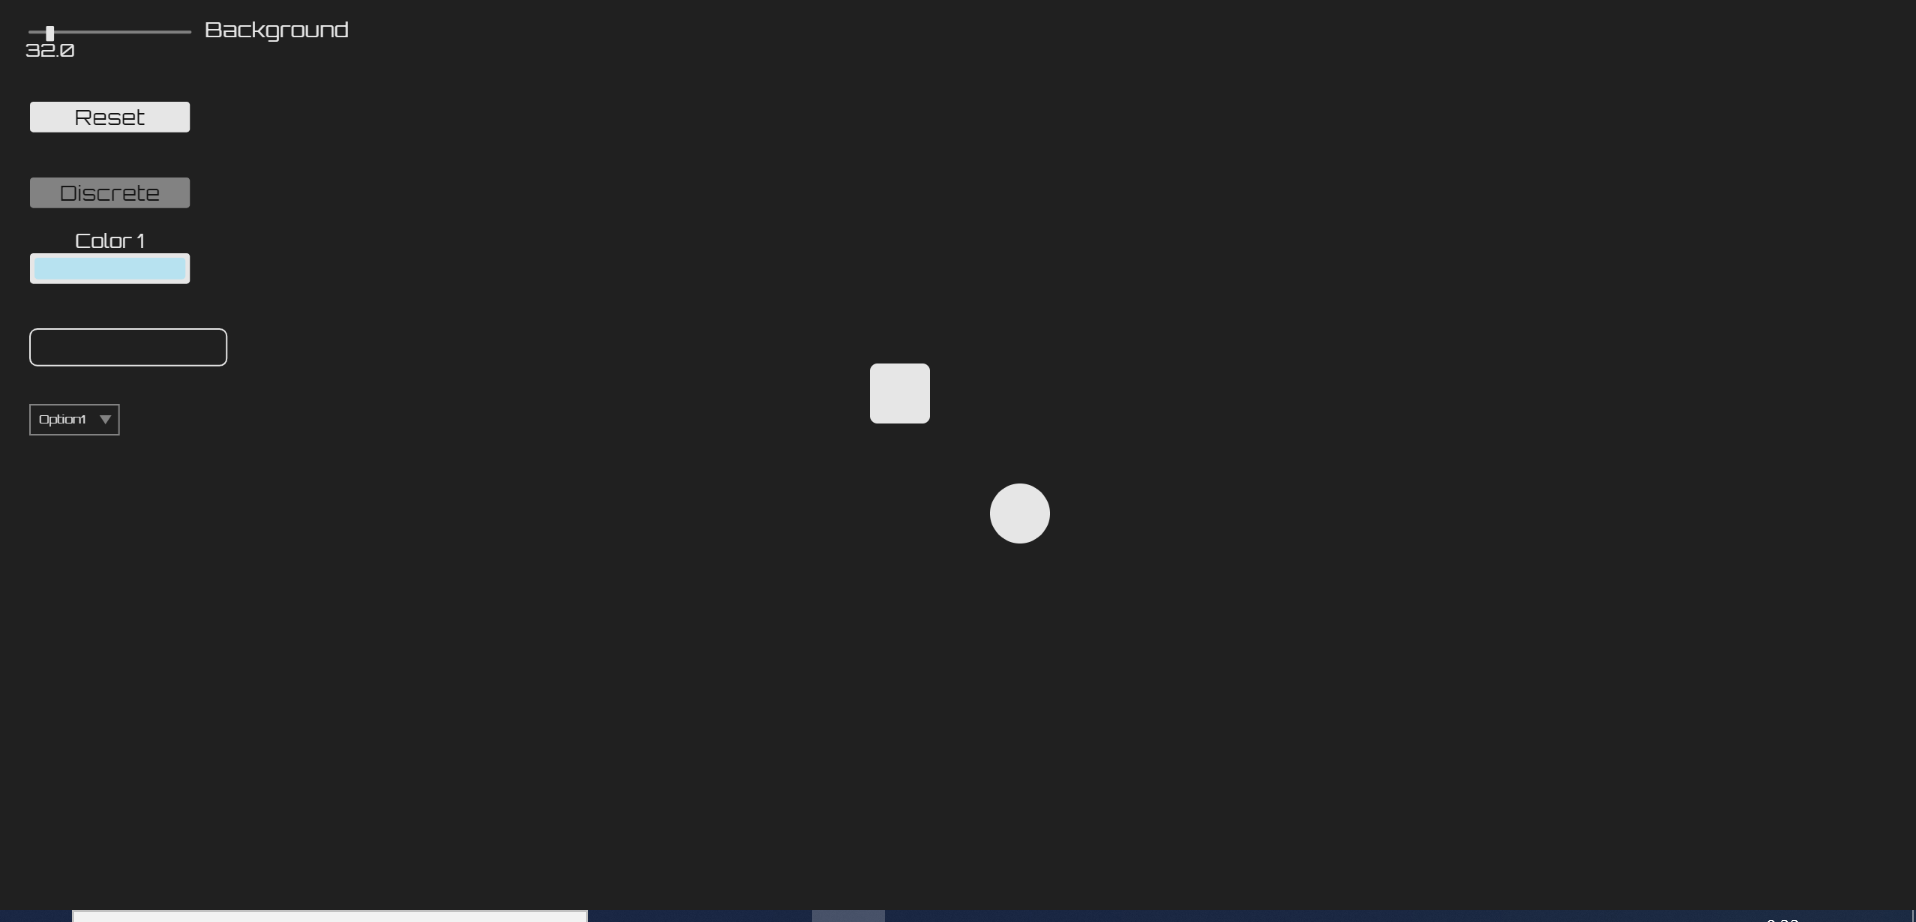
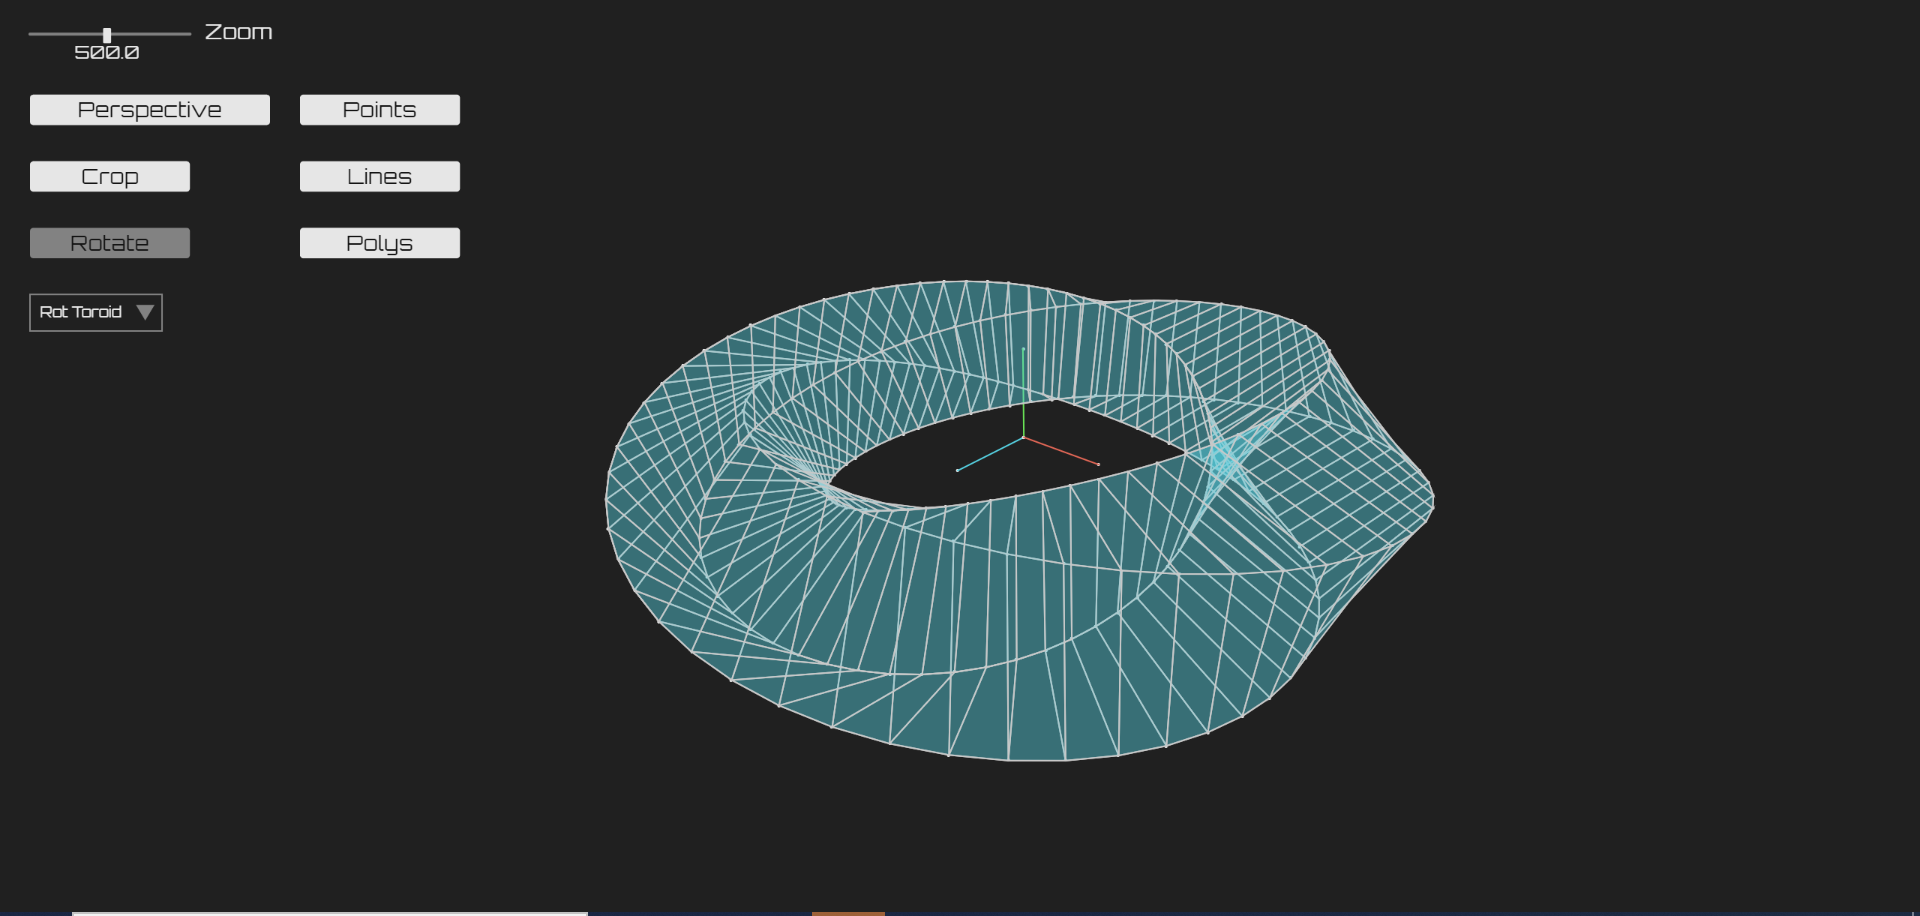
Added all object generators

diff --git a/generators.js b/generators.js
@@ -60,11 +60,12 @@ function genFunc(f=(x,y) => x*x-y*y, w=2, h=2, hres=15, wres=15) {
  * @param start Vector to rotate
  * @param n Times the vector should be rotated
  * @param end True to close the end point back to the start
+ * @param angle Full angle of rotation
  */
-function genCircle(axis=1, start=new Vector([1,0,0]), n=16, end=true) {
+function genCircle(axis=1, start=new Vector([1,0,0]), n=16, end=true, angle=2*PI) {
     return new Wireframe(new Vector([0,0,0]), 
-        Array(n).fill().map((_,i) => start.copy().rotate(i/n*2*PI)),
-        Array(n-1).fill().map((_,i) => [i,i+1]).concat(end ? [[n-1,0]] : [])
+        Array(n+1).fill().map((_,i) => start.copy().rotate(i/n*angle)),
+        Array(n).fill().map((_,i) => [i,i+1]).concat(end ? [[n,0]] : [])
     );
 }
 
@@ -117,6 +118,89 @@ function extrude(wireframe, axis=1, len=3, faces=true) {
 	return new SolidObj(new Vector([0,0,0]), pts, pols);
 }
 
-function genDef() {
-	return genCube();
+
+/**
+ * Returns a toroid with the given parameters
+ * 
+ * @param r1 Thickness of the toroid
+ * @param r2 Big radious of the toroid
+ * @param n1 Resolution of the circle to be rotated
+ * @param n2 Resolution of the rotation
+ */
+function genToroid(r1=1, r2=3, n1=16, n2=32) {
+	return revolution(genCircle(2, new Vector([r1,0,0]), n1, true),
+						new Vector([r2,0,0]), 1, 2*PI, n2, 0, 0);
+}
+
+/**
+ * Returns a sphere given the following parameters
+ * 
+ * @param r Radious of the sphere
+ * @param n1 Number of parallels 
+ * @param n2 Number of meridians
+ */
+function genSphere(r=1, n1=16, n2=32) {
+	return revolution(genCircle(0, new Vector([0,r,0]), n1, false, PI),
+						new Vector([0,0,0]), 1, 2*PI, n2, 0, 0, false);
+}
+
+/**
+ * Returns the result of genereting a toroid by revolution 
+ * but rotating the initial circle a litle bit each time
+ * 
+ * @param r1 Thickness of the toroid
+ * @param r2 Big radious of the toroid
+ * @param n1 Resolution of the circle to be rotated
+ * @param n2 Resolution of the rotation
+ * @param angle Full angle to rotate the initial circle
+ */
+function genRotToroid(r1=1, r2=3, n1=4, n2=64, angle=3*PI/2) {
+	return revolution(genCircle(2, new Vector([r1,0,0]), n1, true),
+						new Vector([r2,0,0]), 1, 2*PI, n2, 2, angle);
+}
+
+/**
+ * Returns a moebious strip
+ * 
+ * @param r1 Thickness of the strip
+ * @param r2 Radious of the strip
+ * @param n Resolution along the strip
+ * @param angle Full rotation angle
+ */
+function genMoebious(r1=1, r2=3, n=64, angle=PI) {
+	return revolution(genCircle(2, new Vector([r1,0,0]), 2, true),
+						new Vector([r2,0,0]), 1, 2*PI, n, 2, angle);
+}
+
+/**
+ * 
+ * @param wireframe Object to rotate
+ * @param start Position to add to the wireframe before rotating
+ * @param axis1 Main axis to rotate arround
+ * @param angle1 Full angle to rotate arround that axis
+ * @param n Number of rotations
+ * @param axis2 Secondary axis
+ * @param angle2 Full angle to rotate arround the secondary axis
+ * @param close True to close the last points of the wireframe after each rotation
+ */
+function revolution(wireframe, start=new Vector([1,0,0]), axis1=1, angle1=2*PI, n=32, axis2=0, angle2=0, close=true) {
+	let n1 = wireframe.points.length;
+	
+	let pts = [];
+	for(let i = 0; i <= n; i++) {
+		pts = pts.concat(wireframe.points.map((p) => p.copy().rotate3D(angle2 * i/n, axis2).
+					add(start).rotate3D(angle1 * i/n, axis1)));
+	}
+
+	let pols = [];
+	for(let i = 0; i < n; i++) {
+		for(let j = 0; j < n1 - 1; j++) {
+			pols.push([i*n1 + j, i*n1 + j + 1, (i+1)*n1 + j + 1, (i+1)*n1 + j])
+		}
+		if(close) {
+			pols.push([i*n1, (i+1)*n1 - 1, (i+2)*n1 - 1, (i+1)*n1]);
+		}
+	}
+
+	return new SolidObj(new Vector([0,0,0]), pts, pols);
 }

diff --git a/sketch.js b/sketch.js
@@ -4,10 +4,13 @@ let objSel;
 let scene = []; // Array of visible objects
 let cam; // Camera
 let objList = {
-	"Def":  	genDef, // Temp
-	"Cube":		genCube,
-	"Fnc":		genFunc,
-	"Cyl": 		genCyl,
+	"Rot Toroid":genRotToroid,
+	"Moebious":  genMoebious,
+	"Function":	 genFunc,
+	"Cylinder":  genCyl,
+	"Toroid": 	 genToroid,
+	"Cube":		 genCube,
+	"Sphere": 	 genSphere,
 };
 
 function setup() {
@@ -45,7 +48,7 @@ function setup() {
 	cam = new PerspectiveCamera(new Vector([d*l,d*l,d*l]), new Vector([PI/4,-3*PI/4,0]));
 
 	// Add a default object to the scene
-	scene.push(genDef());
+	scene.push(genRotToroid());
 }
 
 function draw() {

diff --git a/objects.js b/objects.js
@@ -39,6 +39,19 @@ class PointCloud {
         }
         return this;
     }
+
+    /**
+     * Rotate all points arround the given axis by a radians
+     * 
+     * @param a Angle to rotate
+     * @param axis Axis to rotate arround
+     */
+    rotate(a, axis) {
+        for(let p of this.points) {
+            p.rotate3D(a, axis);
+        }
+        return this;
+    }
 }
 
 /**
